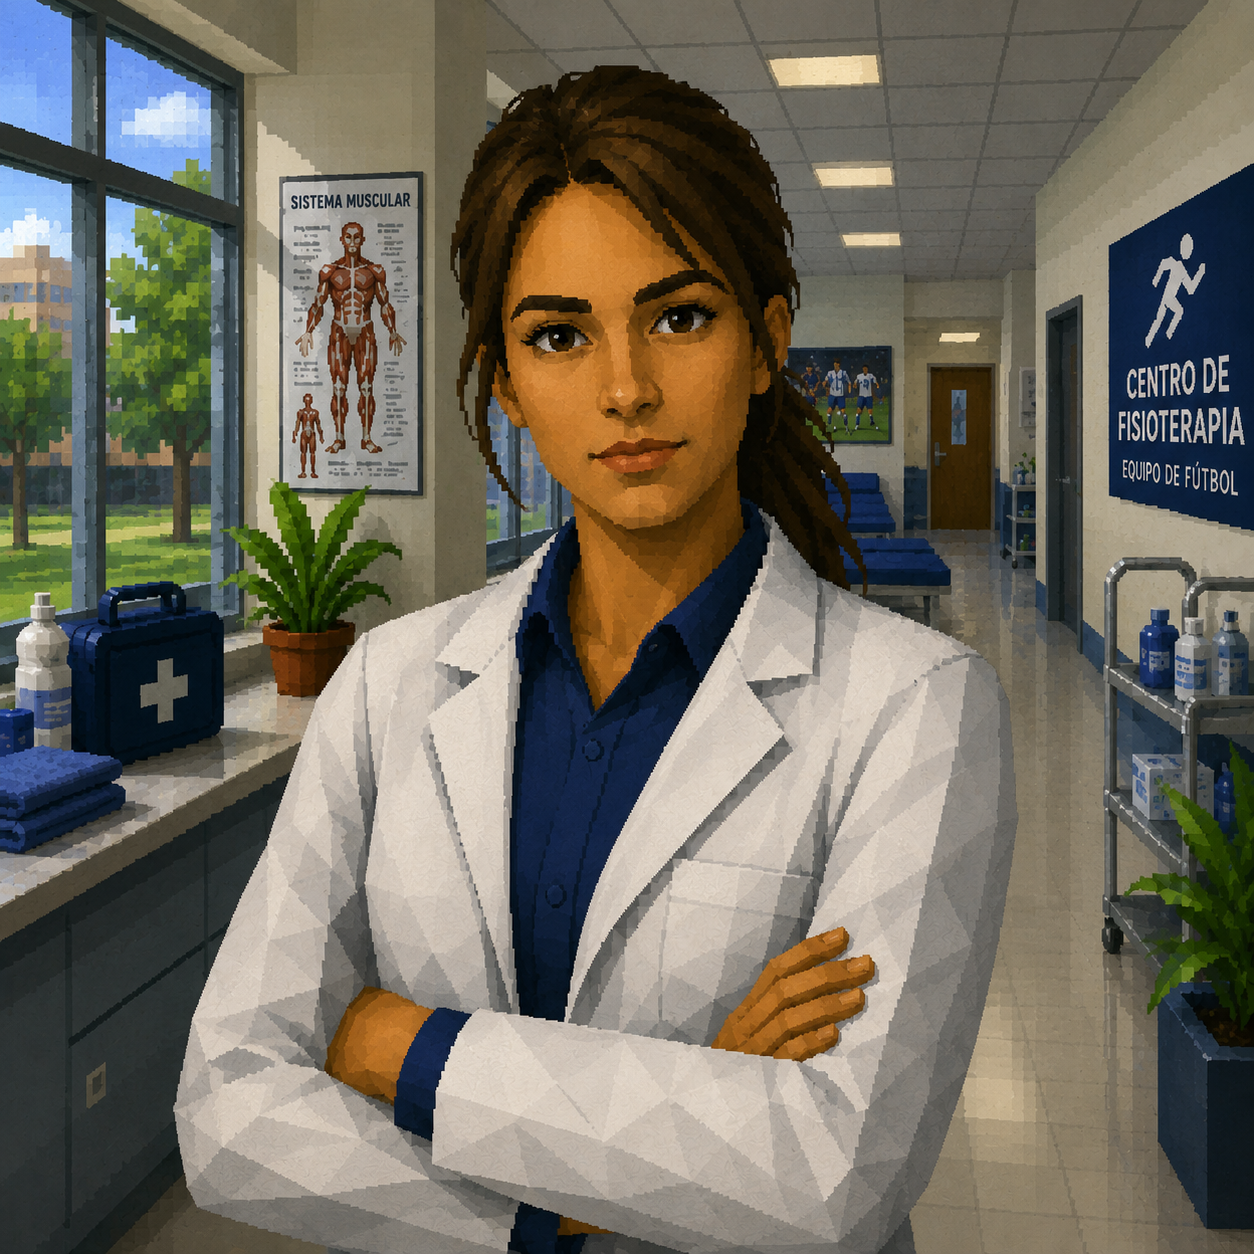
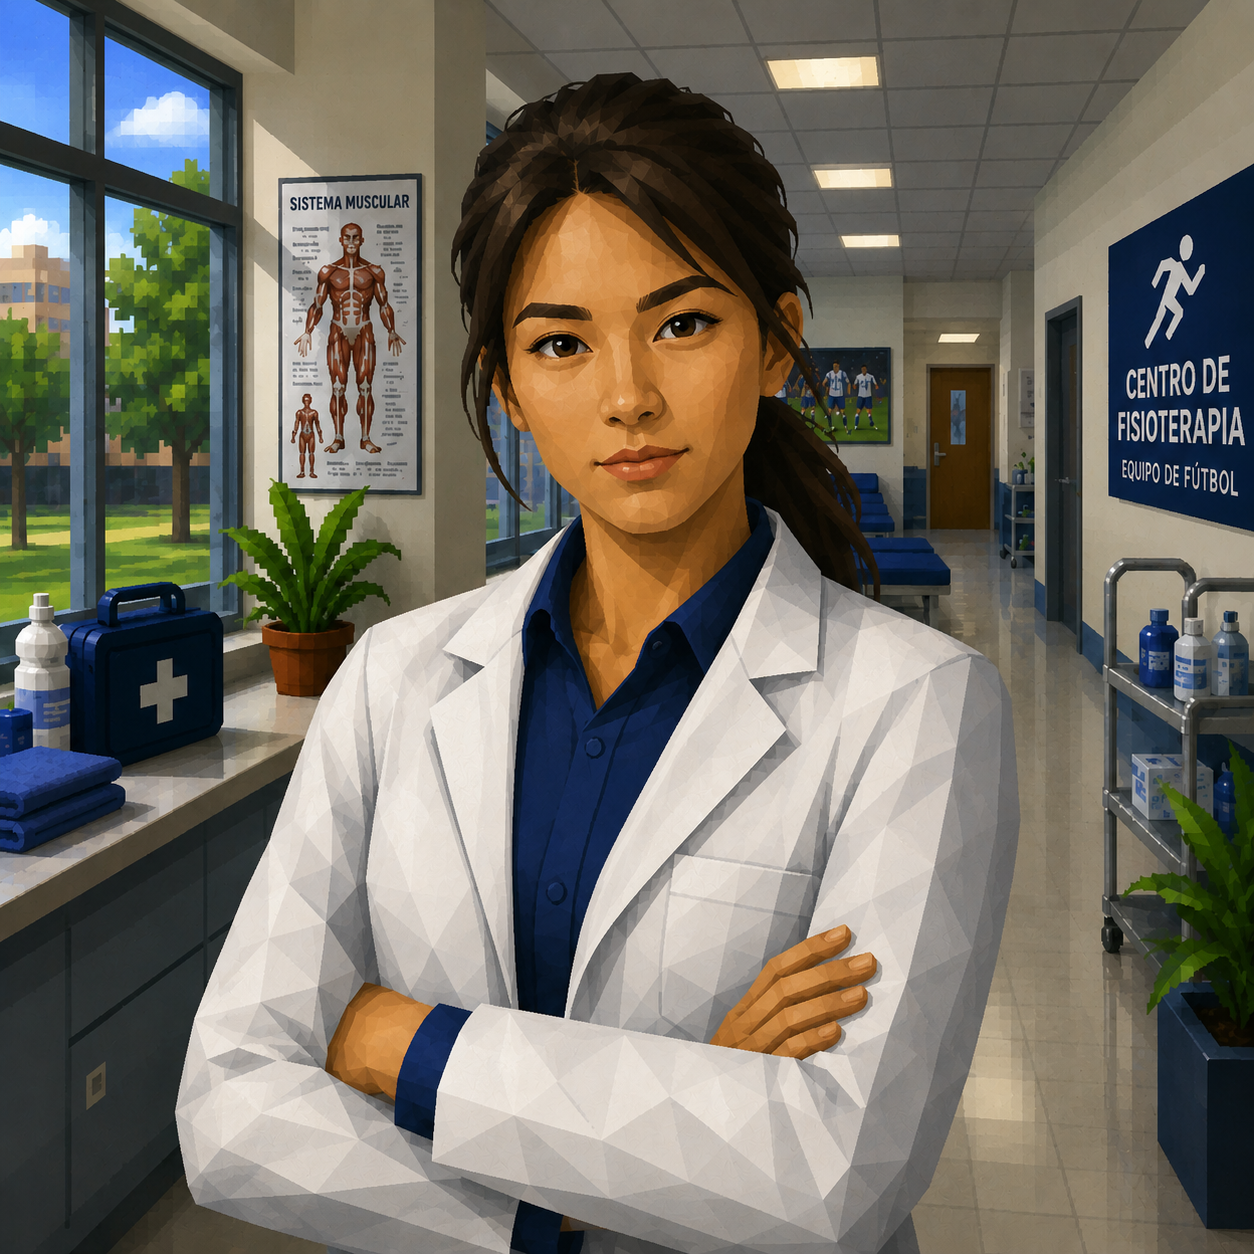
correcciones y mejoras 1 23/07/26

diff --git a/liga-manager.js b/liga-manager.js
@@ -743,7 +743,16 @@
     if(!jugador.rasgos) jugador.rasgos=[];
     if(jugador.rasgos.includes(rasgoId)) return false;
     jugador.rasgos.push(rasgoId);
-    if(def.stat){ jugador[def.stat]=Math.min(99, (jugador[def.stat]||0)+5); }
+    if(def.stat){
+      jugador[def.stat]=Math.min(99, (jugador[def.stat]||0)+5);
+      // El overall del jugador se recalcula a partir de sus 5
+      // estadísticas reales — así la media del equipo (que se calcula a
+      // partir de esto) y su valor de venta (que usa overall
+      // directamente al generar ofertas) quedan siempre al día, sin
+      // quedarse con un número antiguo.
+      jugador.overall=Math.round((jugador.attack+jugador.defense+jugador.pace+jugador.passing+jugador.technique)/5);
+      jugador.salario=calcularSalario(jugador.overall);
+    }
     guardarEstado();
     return true;
   }
@@ -812,9 +821,14 @@
       const key=jIndexJugado+'-'+p.homeId+'-'+p.awayId;
       const res=state.resultados[key];
       const real = res ? resultadoPartidoQuiniela(res) : null;
-      const acierto = real && boleto.predicciones[jIndexJugado+'-'+p.homeId+'-'+p.awayId]===real;
+      // Con los cheats activados, la quiniela sale siempre perfecta —
+      // se muestra la predicción como si hubiera acertado el resultado
+      // real en todos los partidos.
+      const prediccionReal=boleto.predicciones[jIndexJugado+'-'+p.homeId+'-'+p.awayId];
+      const prediccion = window.CHEATS_ACTIVE ? real : prediccionReal;
+      const acierto = window.CHEATS_ACTIVE ? !!real : (real && prediccionReal===real);
       if(acierto) aciertos++;
-      return {...p, prediccion:boleto.predicciones[jIndexJugado+'-'+p.homeId+'-'+p.awayId], real, acierto};
+      return {...p, prediccion, real, acierto};
     });
     const total=detalle.length;
     const premio=Math.round((aciertos/total)*aciertos*3500); // crece más que proporcional cuantos más aciertas
@@ -3141,10 +3155,22 @@
     const img=overlay.querySelector('#lmSobreImgArrastrable');
     const zona=overlay.querySelector('#lmSobreGrabZone');
     const hint=overlay.querySelector('#lmSobreHint');
-    const UMBRAL_APERTURA=70; // px que hay que arrastrar hacia cualquier lado para que el sobre se abra
-    let arrastrando=false, startX=0, abierto=false;
+    const UMBRAL_APERTURA=180; // px que hay que arrastrar — casi todo el recorrido de la franja, para que no se abra al mínimo roce
+    let arrastrando=false, startX=0, abierto=false, ultimaEstelaTs=0;
 
     function posX(e){ return (e.touches && e.touches[0]) ? e.touches[0].clientX : e.clientX; }
+    function posY(e){ return (e.touches && e.touches[0]) ? e.touches[0].clientY : e.clientY; }
+    // Estela amarilla que sigue al puntero mientras se arrastra — una
+    // mota nueva cada pocos milisegundos, que se desvanece sola.
+    function crearEstela(x, y){
+      const punto=document.createElement('div');
+      punto.className='lm-sobre-estela-punto';
+      punto.style.left=x+'px';
+      punto.style.top=y+'px';
+      document.body.appendChild(punto);
+      requestAnimationFrame(()=>{ punto.style.opacity='0'; punto.style.transform='translate(-50%,-50%) scale(2.2)'; });
+      setTimeout(()=>punto.remove(), 450);
+    }
 
     function onMove(e){
       if(!arrastrando || abierto) return;
@@ -3155,6 +3181,8 @@
       img.style.filter=`brightness(${1+progreso*0.35})`;
       zona.style.opacity=String(1-progreso*0.7);
       hint.style.opacity=String(1-progreso);
+      const ahora=Date.now();
+      if(ahora-ultimaEstelaTs>28){ ultimaEstelaTs=ahora; crearEstela(posX(e), posY(e)); }
       if(delta>=UMBRAL_APERTURA) completarApertura(deltaCrudo>0?1:-1);
     }
     function onUp(){
@@ -3387,36 +3415,28 @@
         </div>
         <div class="lm-infoclub-stats-grid">
           <div class="lm-infoclub-stat">
-            <i class="ph ph-bold ph-coins"></i>
-            <div><div class="lm-infoclub-stat-val">${formatoDinero(state.capital||0)}</div><div class="lm-infoclub-stat-label">CAPITAL</div></div>
+            <div class="lm-infoclub-stat-top"><i class="ph ph-bold ph-coins"></i><div class="lm-infoclub-stat-val">${formatoDinero(state.capital||0)}</div></div><div class="lm-infoclub-stat-label">CAPITAL</div>
           </div>
           <div class="lm-infoclub-stat">
-            <i class="ph ph-bold ph-users"></i>
-            <div><div class="lm-infoclub-stat-val">${(estadio.aforoTotal||0).toLocaleString('es-ES')}</div><div class="lm-infoclub-stat-label">AFORO MÁXIMO</div></div>
+            <div class="lm-infoclub-stat-top"><i class="ph ph-bold ph-users"></i><div class="lm-infoclub-stat-val">${(estadio.aforoTotal||0).toLocaleString('es-ES')}</div></div><div class="lm-infoclub-stat-label">AFORO MÁXIMO</div>
           </div>
           <div class="lm-infoclub-stat">
-            <i class="ph ph-bold ph-ticket"></i>
-            <div><div class="lm-infoclub-stat-val">${((estadio.ultimaAsistencia&&estadio.ultimaAsistencia.asistentes)||0).toLocaleString('es-ES')}</div><div class="lm-infoclub-stat-label">ÚLTIMA ASISTENCIA</div></div>
+            <div class="lm-infoclub-stat-top"><i class="ph ph-bold ph-ticket"></i><div class="lm-infoclub-stat-val">${((estadio.ultimaAsistencia&&estadio.ultimaAsistencia.asistentes)||0).toLocaleString('es-ES')}</div></div><div class="lm-infoclub-stat-label">ÚLTIMA ASISTENCIA</div>
           </div>
           <div class="lm-infoclub-stat">
-            <i class="ph ph-bold ph-money"></i>
-            <div><div class="lm-infoclub-stat-val">${monedaInfo.symbol}${state.precioEntrada||0}</div><div class="lm-infoclub-stat-label">PRECIO ENTRADA</div></div>
+            <div class="lm-infoclub-stat-top"><i class="ph ph-bold ph-money"></i><div class="lm-infoclub-stat-val">${monedaInfo.symbol}${state.precioEntrada||0}</div></div><div class="lm-infoclub-stat-label">PRECIO ENTRADA</div>
           </div>
           <div class="lm-infoclub-stat">
-            <i class="ph ph-bold ph-smiley"></i>
-            <div><div class="lm-infoclub-stat-val">${estadio.satisfaccion||0}</div><div class="lm-infoclub-stat-label">SATISFACCIÓN AFICIÓN</div></div>
+            <div class="lm-infoclub-stat-top"><i class="ph ph-bold ph-smiley"></i><div class="lm-infoclub-stat-val">${estadio.satisfaccion||0}</div></div><div class="lm-infoclub-stat-label">SATISFACCIÓN AFICIÓN</div>
           </div>
           <div class="lm-infoclub-stat">
-            <i class="ph ph-bold ph-heartbeat"></i>
-            <div><div class="lm-infoclub-stat-val">${state.moral||0}</div><div class="lm-infoclub-stat-label">MORAL DEL EQUIPO</div></div>
+            <div class="lm-infoclub-stat-top"><i class="ph ph-bold ph-heartbeat"></i><div class="lm-infoclub-stat-val">${state.moral||0}</div></div><div class="lm-infoclub-stat-label">MORAL DEL EQUIPO</div>
           </div>
           <div class="lm-infoclub-stat">
-            <i class="ph ph-bold ph-grass"></i>
-            <div><div class="lm-infoclub-stat-val">${estadio.campo||0}%</div><div class="lm-infoclub-stat-label">ESTADO DEL CÉSPED</div></div>
+            <div class="lm-infoclub-stat-top"><i class="ph ph-bold ph-grass"></i><div class="lm-infoclub-stat-val">${estadio.campo||0}%</div></div><div class="lm-infoclub-stat-label">ESTADO DEL CÉSPED</div>
           </div>
           <div class="lm-infoclub-stat">
-            <i class="ph ph-bold ph-users-three"></i>
-            <div><div class="lm-infoclub-stat-val">${(state.plantilla||[]).length}</div><div class="lm-infoclub-stat-label">PLANTILLA</div></div>
+            <div class="lm-infoclub-stat-top"><i class="ph ph-bold ph-users-three"></i><div class="lm-infoclub-stat-val">${(state.plantilla||[]).length}</div></div><div class="lm-infoclub-stat-label">PLANTILLA</div>
           </div>
         </div>
         <div class="lm-popup-actions"><button id="lmInfoClubCerrar" class="mode-card-btn mode-card-btn-gold">CERRAR</button></div>

diff --git a/style.css b/style.css
@@ -2342,6 +2342,7 @@ body.light-theme .mp-search-input{background:#f5f1e8;border-color:#d4cec4;color:
 body.menu-screen #mainMenuScreen{display:flex!important}
 body.menu-screen .app{display:none!important}
 body.menu-screen #mobileTabBar{display:none!important}
+body.menu-screen .ranking-btn{display:none!important}
 
 .menu-bg{
   position:absolute;inset:0;z-index:0;
@@ -3080,12 +3081,12 @@ body.liga-manager-screen .ranking-btn-label-lm{display:inline}
   display:grid;grid-template-columns:1fr 1fr;gap:8px;
 }
 .lm-infoclub-stat{
-  display:flex;flex-direction:row;flex-wrap:nowrap;align-items:center;justify-content:center;gap:10px;background:#1c2023;border:1px solid #2a2f32;
+  display:flex;flex-direction:column;align-items:center;justify-content:center;gap:2px;background:#1c2023;border:1px solid #2a2f32;
   border-radius:8px;padding:10px 12px;text-align:center;
 }
-.lm-infoclub-stat i{font-size:20px;color:var(--gold);flex-shrink:0;line-height:1}
-.lm-infoclub-stat>div{display:flex;flex-direction:column;align-items:center;min-width:0}
-.lm-infoclub-stat-val{font-family:'Bebas Neue',Impact,sans-serif;font-size:16px;color:#fff;line-height:1.1;text-align:center;white-space:nowrap}
+.lm-infoclub-stat-top{display:flex;flex-direction:row;align-items:center;justify-content:center;gap:6px}
+.lm-infoclub-stat i{font-size:18px;color:var(--gold);flex-shrink:0;line-height:1}
+.lm-infoclub-stat-val{font-family:'Bebas Neue',Impact,sans-serif;font-size:16px;color:#fff;line-height:1.1;white-space:nowrap}
 .lm-infoclub-stat-label{font-size:9px;color:#888;letter-spacing:.5px;text-transform:uppercase;margin-top:1px;text-align:center}
 .lm-rasgo-icono{font-size:11px;color:var(--gold);margin-left:4px;vertical-align:middle;cursor:help}
 
@@ -3402,6 +3403,16 @@ body.liga-manager-screen .ranking-btn-label-lm{display:inline}
 @keyframes lmSobreFloat{
   0%,100%{ transform:translateY(0) rotate(-1.5deg); }
   50%{ transform:translateY(-14px) rotate(1.5deg); }
+}
+/* Estela amarilla que sigue al puntero mientras se arrastra el sobre —
+   una mota que aparece en la posición exacta y se desvanece agrandándose
+   suavemente, dando sensación de "rastro" luminoso. */
+.lm-sobre-estela-punto{
+  position:fixed;width:10px;height:10px;border-radius:50%;
+  background:radial-gradient(circle, rgba(255,225,140,1) 0%, rgba(255,205,60,.6) 45%, transparent 75%);
+  transform:translate(-50%,-50%);pointer-events:none;z-index:9999;
+  transition:opacity .45s ease, transform .45s ease;
+  box-shadow:0 0 10px 2px rgba(255,215,100,.6);
 }
 /* Franja de rasgado: se dibuja ENCIMA del propio sobre, en la zona
    exacta donde hay que arrastrar. Un brillo recorre la franja de
@@ -3744,7 +3755,7 @@ body.liga-manager-screen .ranking-btn-label-lm{display:inline}
 /* Todas las pantallas de tirada de dados (barajado + resultado) miden
    siempre lo mismo, para que la interfaz no cambie de ancho ni de alto
    entre ver los dados girando y ver si se ha acertado o fallado. */
-.lm-dice-roll-card{width:340px;max-width:92vw;height:400px;display:flex;flex-direction:column;justify-content:center;overflow-y:auto}
+.lm-dice-roll-card{width:340px;max-width:92vw;height:460px;display:flex;flex-direction:column;justify-content:center;overflow-y:auto}
 .lm-dice-reroll-info{font-size:10px;color:#888;margin:2px 0 8px}
 /* Botón X universal de cierre — esquina superior derecha de cualquier
    popup, además del cierre al hacer clic fuera de la tarjeta. */
